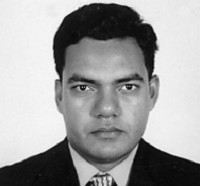
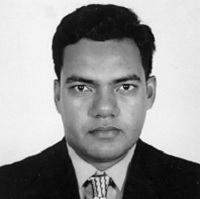
Add new pics and docker files

diff --git a/src/app/components/about/about.component.html b/src/app/components/about/about.component.html
@@ -31,59 +31,35 @@
         
             <div class="row mx-2 ">
                 <div class="col-10 textfont">
-                    Faisal has been in Information Technology sector since long. He has worked as Chief Technology Officer in various companies
-                    both home and abroad. Faisal is familiar with full life cycle product development, and has successfully delivered Information Technology solutions 
-                    to different clients.
+                    Hasnat is a Certified Public Accountant (CPA) from Canada. He also completed his MBA from University of Dhaka. Hasnat has a long experience 
+                    in the field of Accounting and Finance and has worked in top Multinational companies.
+                    since lo
                 </div>
                 <div class="col-2">
-                    <img src="./assets/images/team/faisal.jpg" class="img-fluid border border-primary" alt="...">
+                    <img src="./assets/images/team/hasnat.jpg" class="img-fluid border border-primary" alt="...">
                 </div>
             </div><br>
         
             <div class="row ">
                 <div class="col-2">
-                    <img src="./assets/images/team/farjana.jpg" class="img-fluid border border-primary" alt="...">
+                    <img src="./assets/images/team/faisal.jpg" class="img-fluid border border-primary" alt="...">
                 </div>
                 <div class="col-10">
+                    Faisal has been in Information Technology sector since long. He has worked as Chief Technology Officer in various companies
+                    both home and abroad. Faisal is familiar with full life cycle product development, and has successfully delivered Information Technology solutions 
+                    to different clients.
+                </div>
+            </div><br>
+
+            <div class="row mx-2 ">
+                <div class="col-10 textfont">
                     Farjana graduated from North South University in Computer Science and, since then, has been working as a Programmer.
                 </div>
-            </div>
+                <div class="col-2">
+                    <img src="./assets/images/team/farjana.jpg" class="img-fluid border border-primary" alt="...">
+                </div>
+            </div><br>
         </div>
     </div>
 
 </div>
-
-
-
-
-
-<!--
-<div id = "team">
-    <div class="row mx-2 my-2">
-        <div class="col-4">
-            <img src="./assets/images/team/faizul.jpg" class="img-fluid border border-primary" style="width:25%; height:100%" alt="...">
-        </div>
-        <div class="col-8">
-            blabla
-        </div>
-    </div>
-
-    <div class="row mx-2 my-2">
-        <div class="col-8">
-            blabla
-        </div>
-        <div class="col-4">
-            <img src="./assets/images/team/faisal.jpg" class="img-fluid border border-primary" style="width:25%; height:100%" alt="...">
-        </div>
-    </div>
-
-    <div class="row mx-2 my-2">
-        <div class="col-4">
-            <img src="./assets/images/team/farjana.jpg" class="img-fluid border border-primary" style="width:25%; height:100%" alt="...">
-        </div>
-        <div class="col-8">
-            blabla
-        </div>
-    </div>
-</div>
--->
